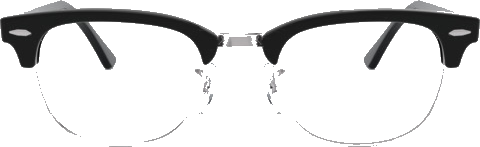
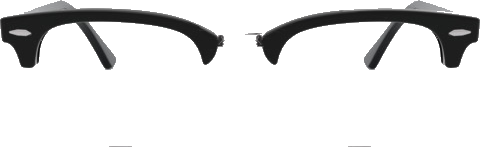
Erase enclosed arm-stub pixels inside transparent lens area

diff --git a/process_lenses.py b/process_lenses.py
@@ -14,6 +14,41 @@ PRODUCTS_FILE = BASE / "products.json"
 DARK_THR = 200  # sum(R+G+B) <= this = dark border pixel, flood-fill stops here
 
 
+def erase_enclosed_opaque(rgba: np.ndarray) -> int:
+    """
+    BFS from exterior opaque pixels (boundary-connected).
+    Any opaque pixel NOT reachable from exterior = enclosed island (arm stub in lens).
+    Make those pixels transparent.
+    Returns count of erased pixels.
+    """
+    h, w = rgba.shape[:2]
+    opaque = rgba[:, :, 3] > 128
+    visited = np.zeros((h, w), dtype=bool)
+    q = deque()
+
+    def seed(y, x):
+        if opaque[y, x] and not visited[y, x]:
+            visited[y, x] = True
+            q.append((y, x))
+
+    for x in range(w):
+        seed(0, x); seed(h - 1, x)
+    for y in range(h):
+        seed(y, 0); seed(y, w - 1)
+
+    while q:
+        cy, cx = q.popleft()
+        for dy, dx in [(-1, 0), (1, 0), (0, -1), (0, 1)]:
+            ny, nx = cy + dy, cx + dx
+            if 0 <= ny < h and 0 <= nx < w and not visited[ny, nx] and opaque[ny, nx]:
+                visited[ny, nx] = True
+                q.append((ny, nx))
+
+    enclosed = opaque & ~visited
+    rgba[enclosed, 3] = 0
+    return int(enclosed.sum())
+
+
 def process_png(path: Path) -> tuple[list, list] | None:
     img = Image.open(path).convert("RGBA")
     rgba = np.array(img, dtype=np.uint8)
@@ -129,6 +164,15 @@ def main():
             p["lens_top"] = None
             p["lens_bot"] = None
             changed = True
+
+        # Always erase enclosed opaque islands (arm stubs inside the now-transparent lens)
+        img2 = Image.open(png_path).convert("RGBA")
+        arr2 = np.array(img2, dtype=np.uint8)
+        n = erase_enclosed_opaque(arr2)
+        print(f"  Enclosed arm-stub pixels erased: {n}")
+        if n > 0:
+            Image.fromarray(arr2, "RGBA").save(png_path, "PNG")
+            print(f"  Re-saved: {png_path.name}")
 
     if changed:
         PRODUCTS_FILE.write_text(
